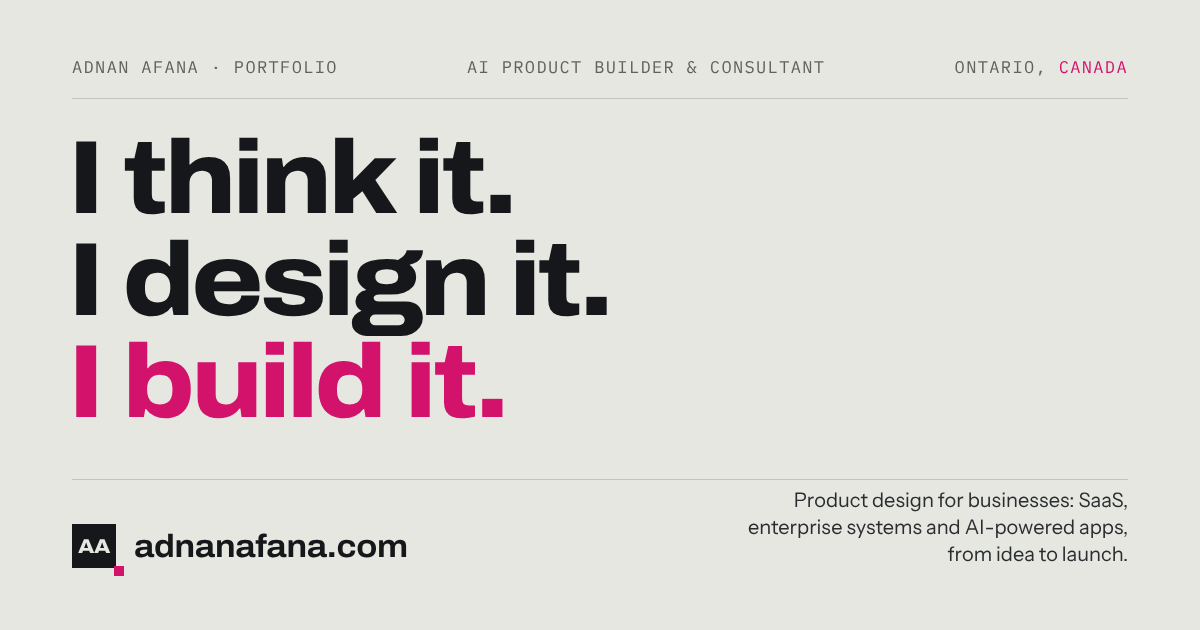
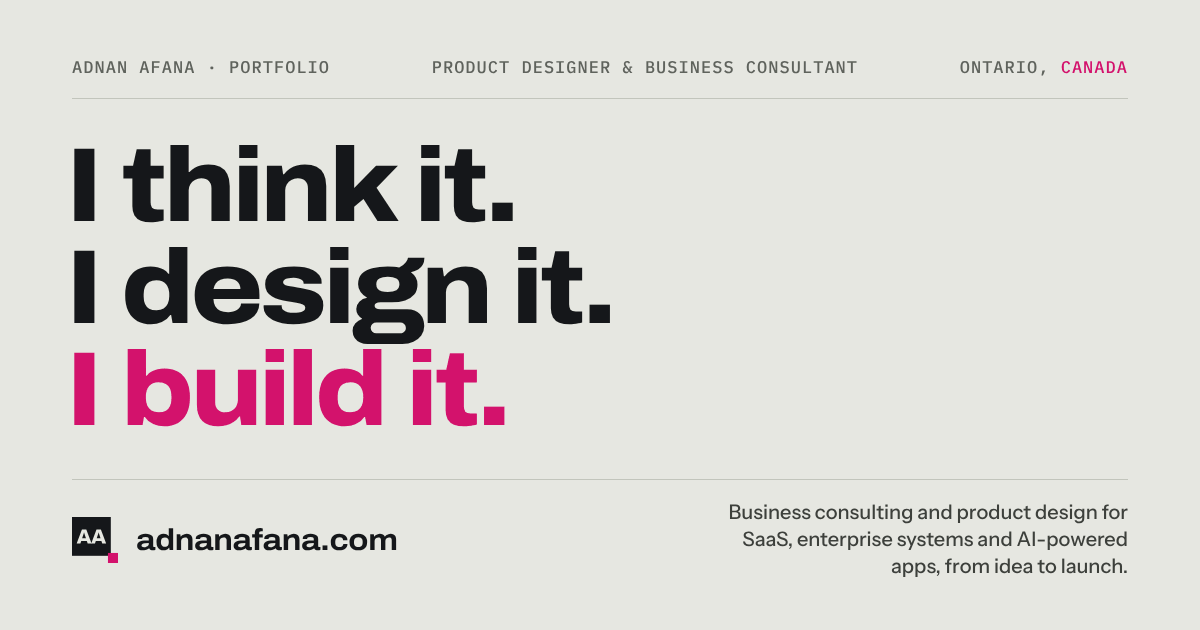
Meta: Product Designer & Business Consultant
Tab title, search description, link-preview title/description, share image,
structured data and manifest now lead with business consulting and product
design instead of AI Product Builder & Consultant. Share image URL gets a
version query so WhatsApp and LinkedIn fetch the new card.

Claude-Session: https://claude.ai/code/session_014uPeBERpYNPUBZxbPhCANy

diff --git a/index.html b/index.html
@@ -3,8 +3,8 @@
 <head>
 <meta charset="utf-8">
 <meta name="viewport" content="width=device-width,initial-scale=1,viewport-fit=cover">
-<title>Adnan Afana ♦ AI Product Builder &amp; Consultant</title>
-<meta name="description" content="Adnan Afana, AI Product Builder &amp; Consultant, designs and builds SaaS, enterprise systems and AI-powered products, and advises businesses through consulting and AI workshops in Ontario, Canada.">
+<title>Adnan Afana ♦ Product Designer &amp; Business Consultant</title>
+<meta name="description" content="Adnan Afana is a product designer and business consultant in Ontario, Canada. He helps businesses validate ideas, then design and launch SaaS, enterprise systems and AI-powered products.">
 <meta name="author" content="Adnan Afana">
 <meta name="robots" content="index,follow,max-image-preview:large">
 <link rel="canonical" href="https://adnanafana.com/">
@@ -23,20 +23,20 @@
 <meta property="og:site_name" content="Adnan Afana">
 <meta property="og:locale" content="en_CA">
 <meta property="og:url" content="https://adnanafana.com/">
-<meta property="og:title" content="Adnan Afana ♦ AI Product Builder &amp; Consultant">
-<meta property="og:description" content="AI Product Builder &amp; Consultant: product design, AI development and business consulting that turn ideas into real products, from idea to launch.">
-<meta property="og:image" content="https://adnanafana.com/assets/og-image.png">
-<meta property="og:image:secure_url" content="https://adnanafana.com/assets/og-image.png">
+<meta property="og:title" content="Adnan Afana ♦ Product Designer &amp; Business Consultant">
+<meta property="og:description" content="Business consulting and product design that turn ideas into real products: strategy, research, UX and AI-powered builds, from idea to launch.">
+<meta property="og:image" content="https://adnanafana.com/assets/og-image.png?v=3">
+<meta property="og:image:secure_url" content="https://adnanafana.com/assets/og-image.png?v=3">
 <meta property="og:image:type" content="image/png">
 <meta property="og:image:width" content="1200">
 <meta property="og:image:height" content="630">
-<meta property="og:image:alt" content="Adnan Afana, AI Product Builder &amp; Consultant in Ontario, Canada: I think it. I design it. I build it.">
+<meta property="og:image:alt" content="Adnan Afana, Product Designer &amp; Business Consultant in Ontario, Canada: I think it. I design it. I build it.">
 <!-- X / Twitter -->
 <meta name="twitter:card" content="summary_large_image">
-<meta name="twitter:title" content="Adnan Afana ♦ AI Product Builder &amp; Consultant">
-<meta name="twitter:description" content="AI Product Builder &amp; Consultant: product design, AI development and business consulting.">
-<meta name="twitter:image" content="https://adnanafana.com/assets/og-image.png">
-<meta name="twitter:image:alt" content="Adnan Afana, AI Product Builder &amp; Consultant in Ontario, Canada: I think it. I design it. I build it.">
+<meta name="twitter:title" content="Adnan Afana ♦ Product Designer &amp; Business Consultant">
+<meta name="twitter:description" content="Business consulting and product design, from idea to launch.">
+<meta name="twitter:image" content="https://adnanafana.com/assets/og-image.png?v=3">
+<meta name="twitter:image:alt" content="Adnan Afana, Product Designer &amp; Business Consultant in Ontario, Canada: I think it. I design it. I build it.">
 
 <!-- structured data for search engines -->
 <script type="application/ld+json">
@@ -48,9 +48,9 @@
       "@id": "https://adnanafana.com/#person",
       "name": "Adnan Afana",
       "url": "https://adnanafana.com/",
-      "image": "https://adnanafana.com/assets/og-image.png",
-      "jobTitle": "AI Product Builder & Consultant",
-      "description": "AI Product Builder & Consultant combining product thinking, UX design, AI-powered development and business consulting to turn ideas into real products, from enterprise SaaS to AI-powered experiences.",
+      "image": "https://adnanafana.com/assets/og-image.png?v=3",
+      "jobTitle": "Product Designer & Business Consultant",
+      "description": "Product designer and business consultant who helps businesses validate ideas and turn them into real products, combining business consulting, market research, UX design and AI-powered development, from enterprise SaaS to AI-powered experiences.",
       "email": "mailto:adnanafana0@gmail.com",
       "address": { "@type": "PostalAddress", "addressRegion": "ON", "addressCountry": "CA" },
       "knowsAbout": ["AI product design", "UX design", "UI design", "Product strategy", "Design systems", "Prototyping", "Motion design", "Business analysis"],
@@ -68,10 +68,10 @@
       "@type": "ProfilePage",
       "@id": "https://adnanafana.com/#profile",
       "url": "https://adnanafana.com/",
-      "name": "Adnan Afana ♦ AI Product Builder & Consultant",
+      "name": "Adnan Afana ♦ Product Designer & Business Consultant",
       "isPartOf": { "@id": "https://adnanafana.com/#website" },
       "mainEntity": { "@id": "https://adnanafana.com/#person" },
-      "dateModified": "2026-10-25"
+      "dateModified": "2026-10-26"
     }
   ]
 }
